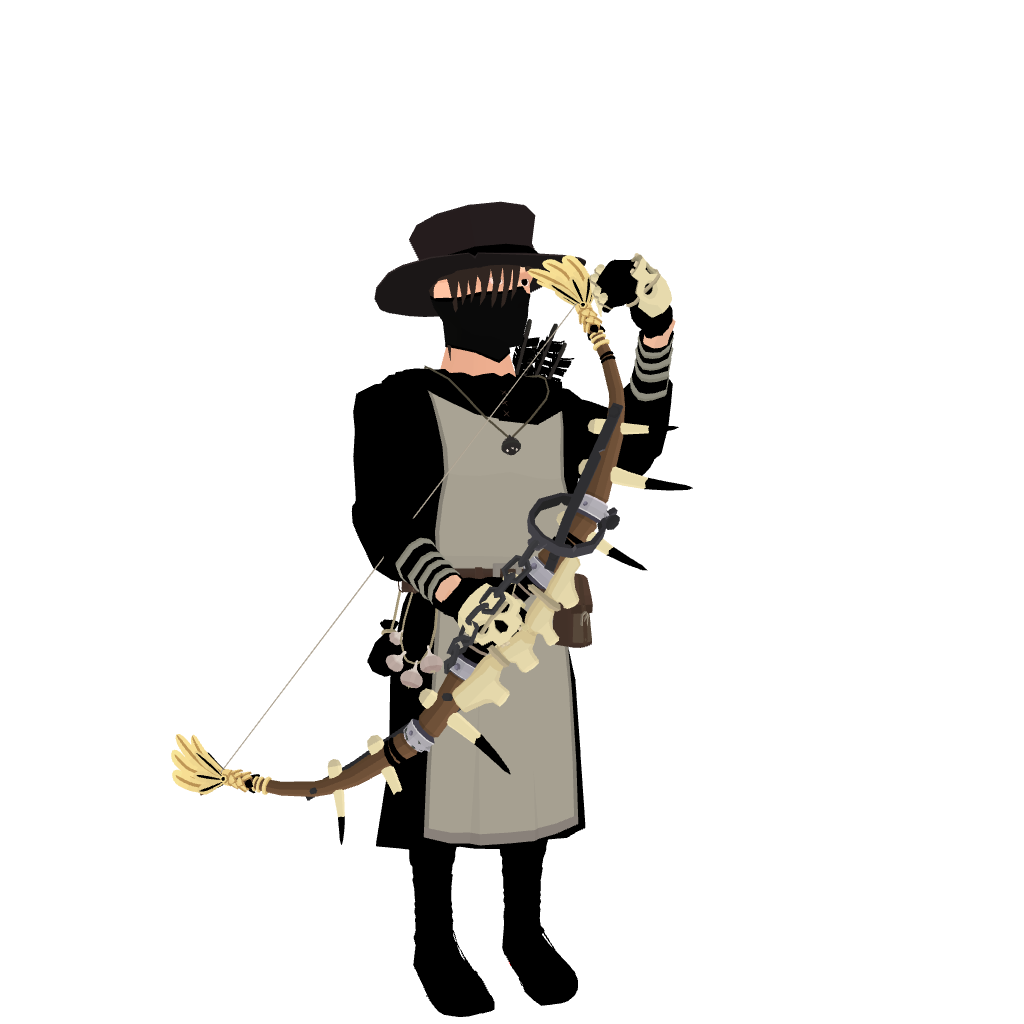
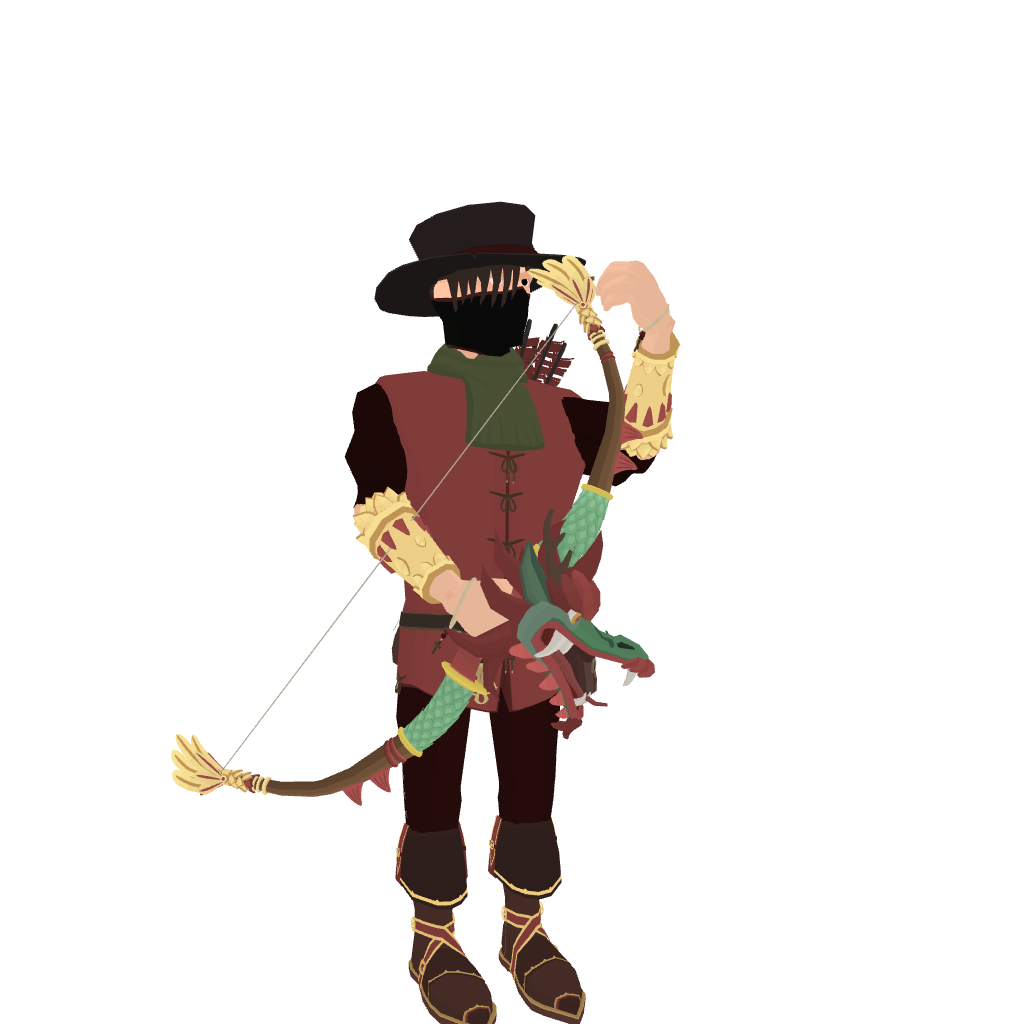
added blazyst1 and fixed aether

Changed region(s): [[0.3125, 0.25, 0.6875, 1.0], [0.4375, 0.2188, 0.5312, 0.25], [0.1875, 0.75, 0.25, 0.7812]]

diff --git a/blazyst1/index.html b/blazyst1/index.html
@@ -1,0 +1,11 @@
+<!DOCTYPE html>
+<html lang="en">
+<head>
+  <meta charset="UTF-8">
+  <title>Blazyst</title>
+</head>
+<body>
+  <img length=500 width=500 src="../public/blazyst1a.png">
+  <img length=500 width=500 src="../public/blazyst1b.png">
+</body>
+</html>
